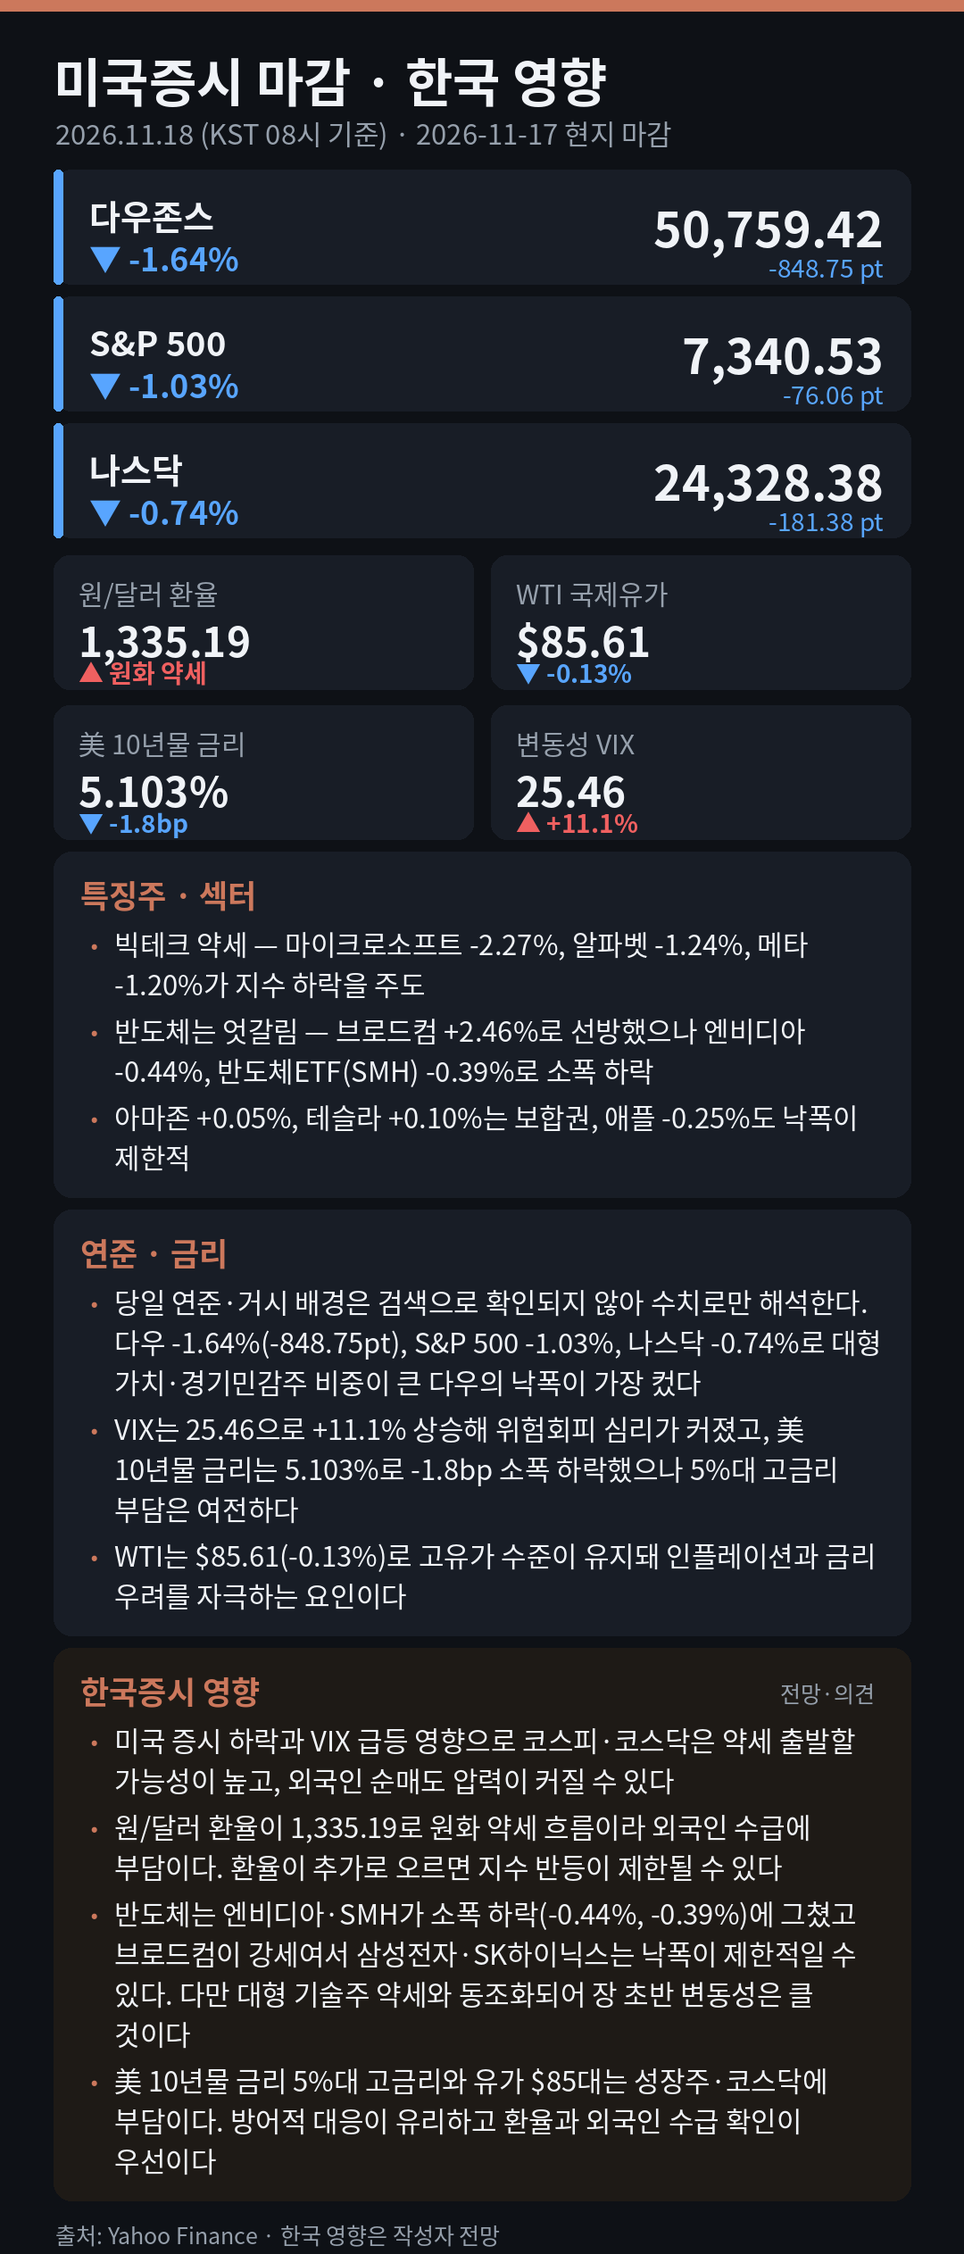
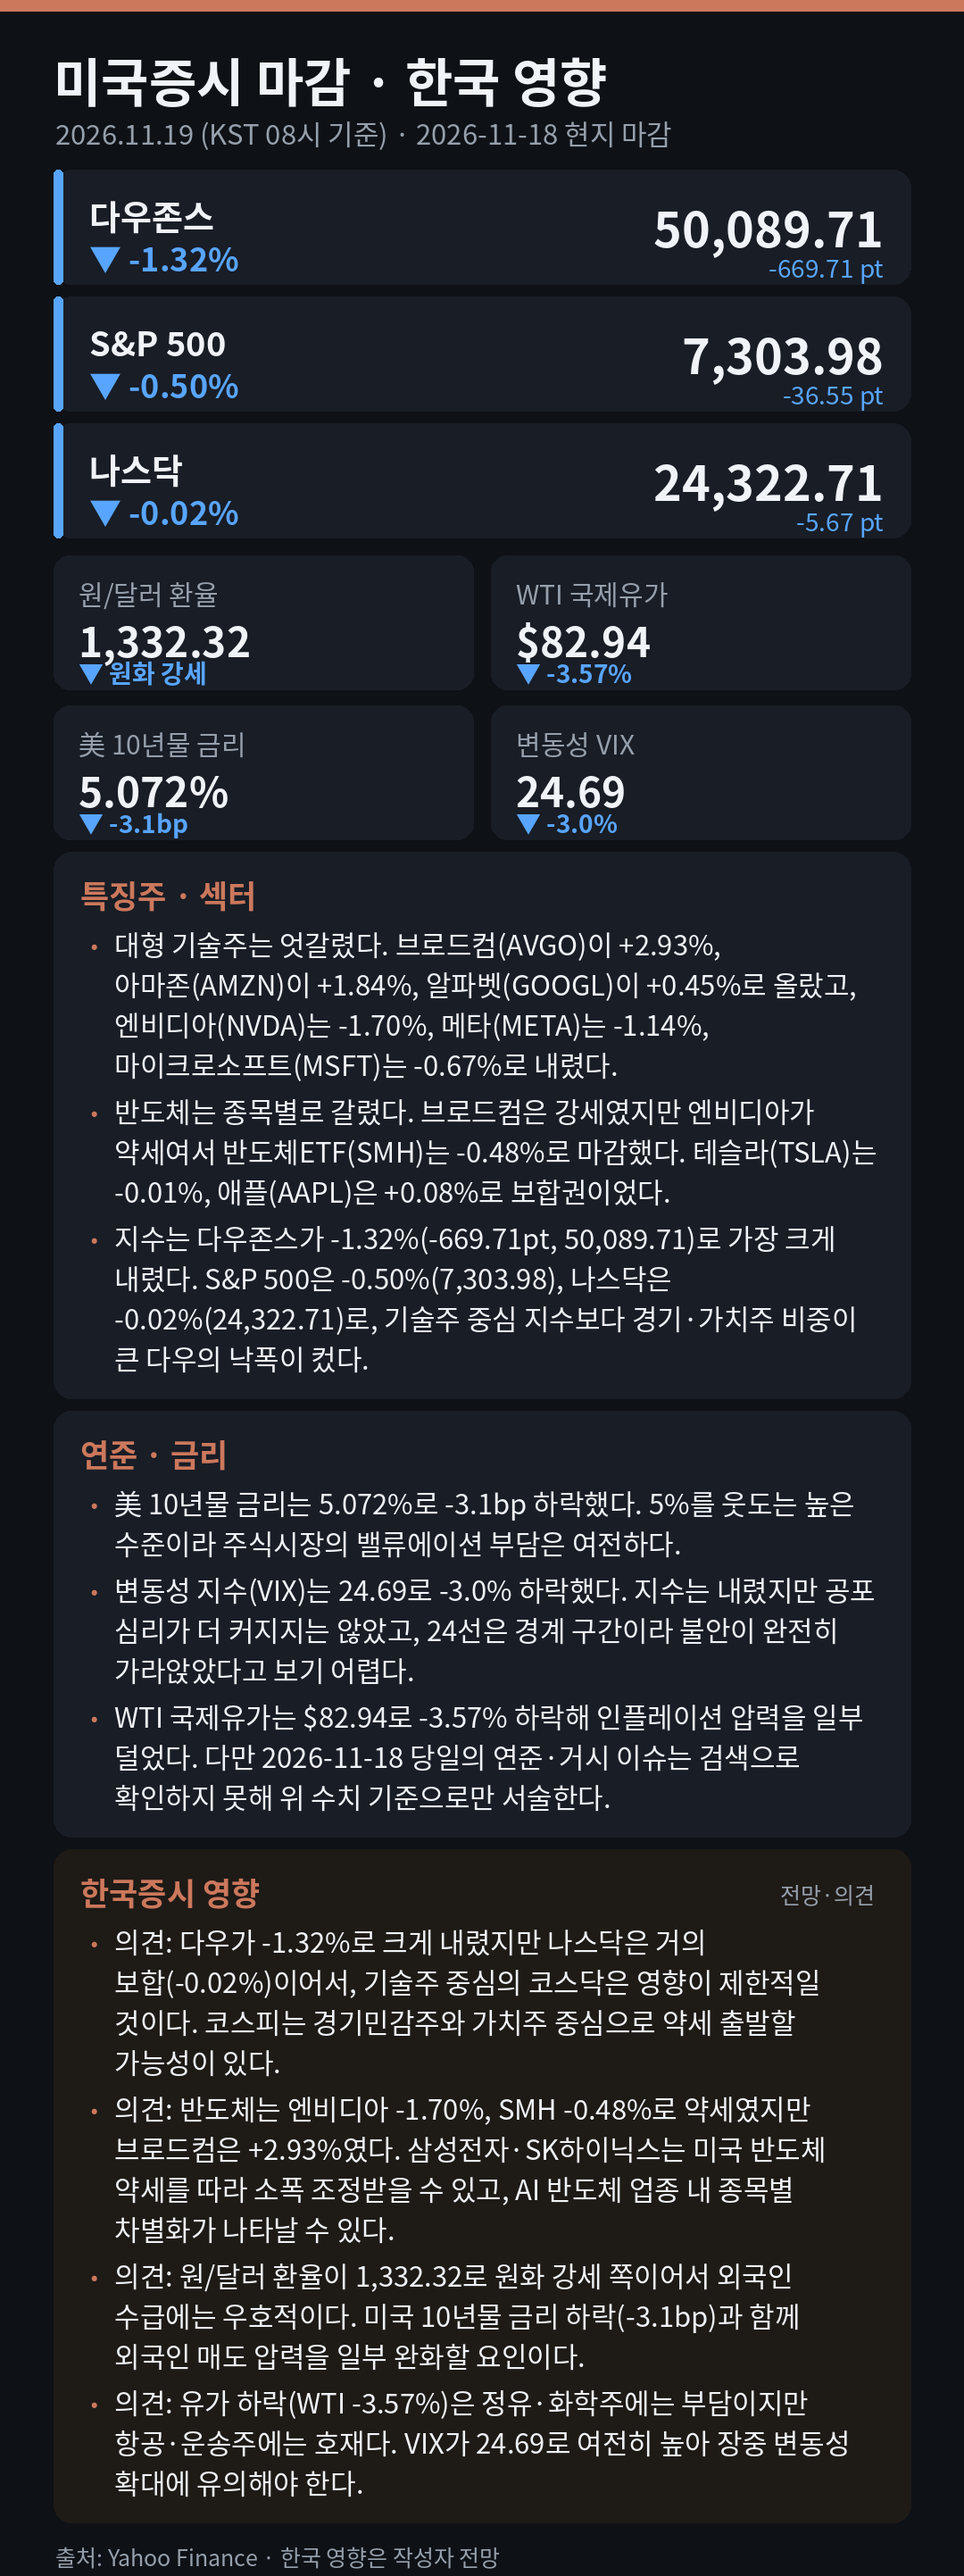
브리핑 2026-11-18 자동 발행

Changed region(s): [[0.0306, 0.0, 0.9167, 1.0]]

diff --git a/index.html b/index.html
@@ -14,8 +14,8 @@ a{color:#58a5ff;text-decoration:none} .s{color:#8a93a0;font-size:12px;float:righ
 </style></head><body><div class="wrap">
 <h1>미국증시 마감 브리핑</h1>
 <p class="sub">매일 아침(KST 08:02) 자동 업데이트 · 숫자는 Yahoo Finance 기준, 한국 영향은 전망</p>
-<img class="card" src="img/2026-11-17.png?v=2026-11-17" alt="2026-11-17 미국증시 마감"><p class="d">2026-11-17 현지 마감</p>
+<img class="card" src="img/2026-11-18.png?v=2026-11-18" alt="2026-11-18 미국증시 마감"><p class="d">2026-11-18 현지 마감</p>
 <h2>지난 브리핑</h2>
-<ul><li><a href="img/2026-11-17.png">2026-11-17</a> <span class="s">다우존스 -1.64% · S&P 500 -1.03% · 나스닥 -0.74%</span></li><li><a href="img/2026-11-16.png">2026-11-16</a> <span class="s">다우존스 -1.41% · S&P 500 -1.92% · 나스닥 -2.49%</span></li><li><a href="img/2026-11-13.png">2026-11-13</a> <span class="s">다우존스 +0.10% · S&P 500 -0.40% · 나스닥 -0.91%</span></li><li><a href="img/2026-11-12.png">2026-11-12</a> <span class="s">다우존스 -0.36% · S&P 500 -0.35% · 나스닥 -0.39%</span></li><li><a href="img/2026-11-11.png">2026-11-11</a> <span class="s">다우존스 +0.49% · S&P 500 +1.31% · 나스닥 +1.60%</span></li><li><a href="img/2026-11-10.png">2026-11-10</a> <span class="s">다우존스 -0.30% · S&P 500 -0.38% · 나스닥 -0.74%</span></li><li><a href="img/2026-11-09.png">2026-11-09</a> <span class="s">다우존스 +2.15% · S&P 500 +2.35% · 나스닥 +2.74%</span></li><li><a href="img/2026-11-06.png">2026-11-06</a> <span class="s">다우존스 -0.46% · S&P 500 +0.31% · 나스닥 +1.09%</span></li><li><a href="img/2026-11-05.png">2026-11-05</a> <span class="s">다우존스 -3.44% · S&P 500 -4.36% · 나스닥 -5.52%</span></li><li><a href="img/2026-11-04.png">2026-11-04</a> <span class="s">다우존스 +3.03% · S&P 500 +1.58% · 나스닥 +1.44%</span></li><li><a href="img/2026-11-03.png">2026-11-03</a> <span class="s">다우존스 -0.38% · S&P 500 +0.36% · 나스닥 +0.83%</span></li></ul>
+<ul><li><a href="img/2026-11-18.png">2026-11-18</a> <span class="s">다우존스 -1.32% · S&P 500 -0.50% · 나스닥 -0.02%</span></li><li><a href="img/2026-11-17.png">2026-11-17</a> <span class="s">다우존스 -1.64% · S&P 500 -1.03% · 나스닥 -0.74%</span></li><li><a href="img/2026-11-16.png">2026-11-16</a> <span class="s">다우존스 -1.41% · S&P 500 -1.92% · 나스닥 -2.49%</span></li><li><a href="img/2026-11-13.png">2026-11-13</a> <span class="s">다우존스 +0.10% · S&P 500 -0.40% · 나스닥 -0.91%</span></li><li><a href="img/2026-11-12.png">2026-11-12</a> <span class="s">다우존스 -0.36% · S&P 500 -0.35% · 나스닥 -0.39%</span></li><li><a href="img/2026-11-11.png">2026-11-11</a> <span class="s">다우존스 +0.49% · S&P 500 +1.31% · 나스닥 +1.60%</span></li><li><a href="img/2026-11-10.png">2026-11-10</a> <span class="s">다우존스 -0.30% · S&P 500 -0.38% · 나스닥 -0.74%</span></li><li><a href="img/2026-11-09.png">2026-11-09</a> <span class="s">다우존스 +2.15% · S&P 500 +2.35% · 나스닥 +2.74%</span></li><li><a href="img/2026-11-06.png">2026-11-06</a> <span class="s">다우존스 -0.46% · S&P 500 +0.31% · 나스닥 +1.09%</span></li><li><a href="img/2026-11-05.png">2026-11-05</a> <span class="s">다우존스 -3.44% · S&P 500 -4.36% · 나스닥 -5.52%</span></li><li><a href="img/2026-11-04.png">2026-11-04</a> <span class="s">다우존스 +3.03% · S&P 500 +1.58% · 나스닥 +1.44%</span></li></ul>
 <p class="foot">자동 생성 · Navis</p>
 </div></body></html>
